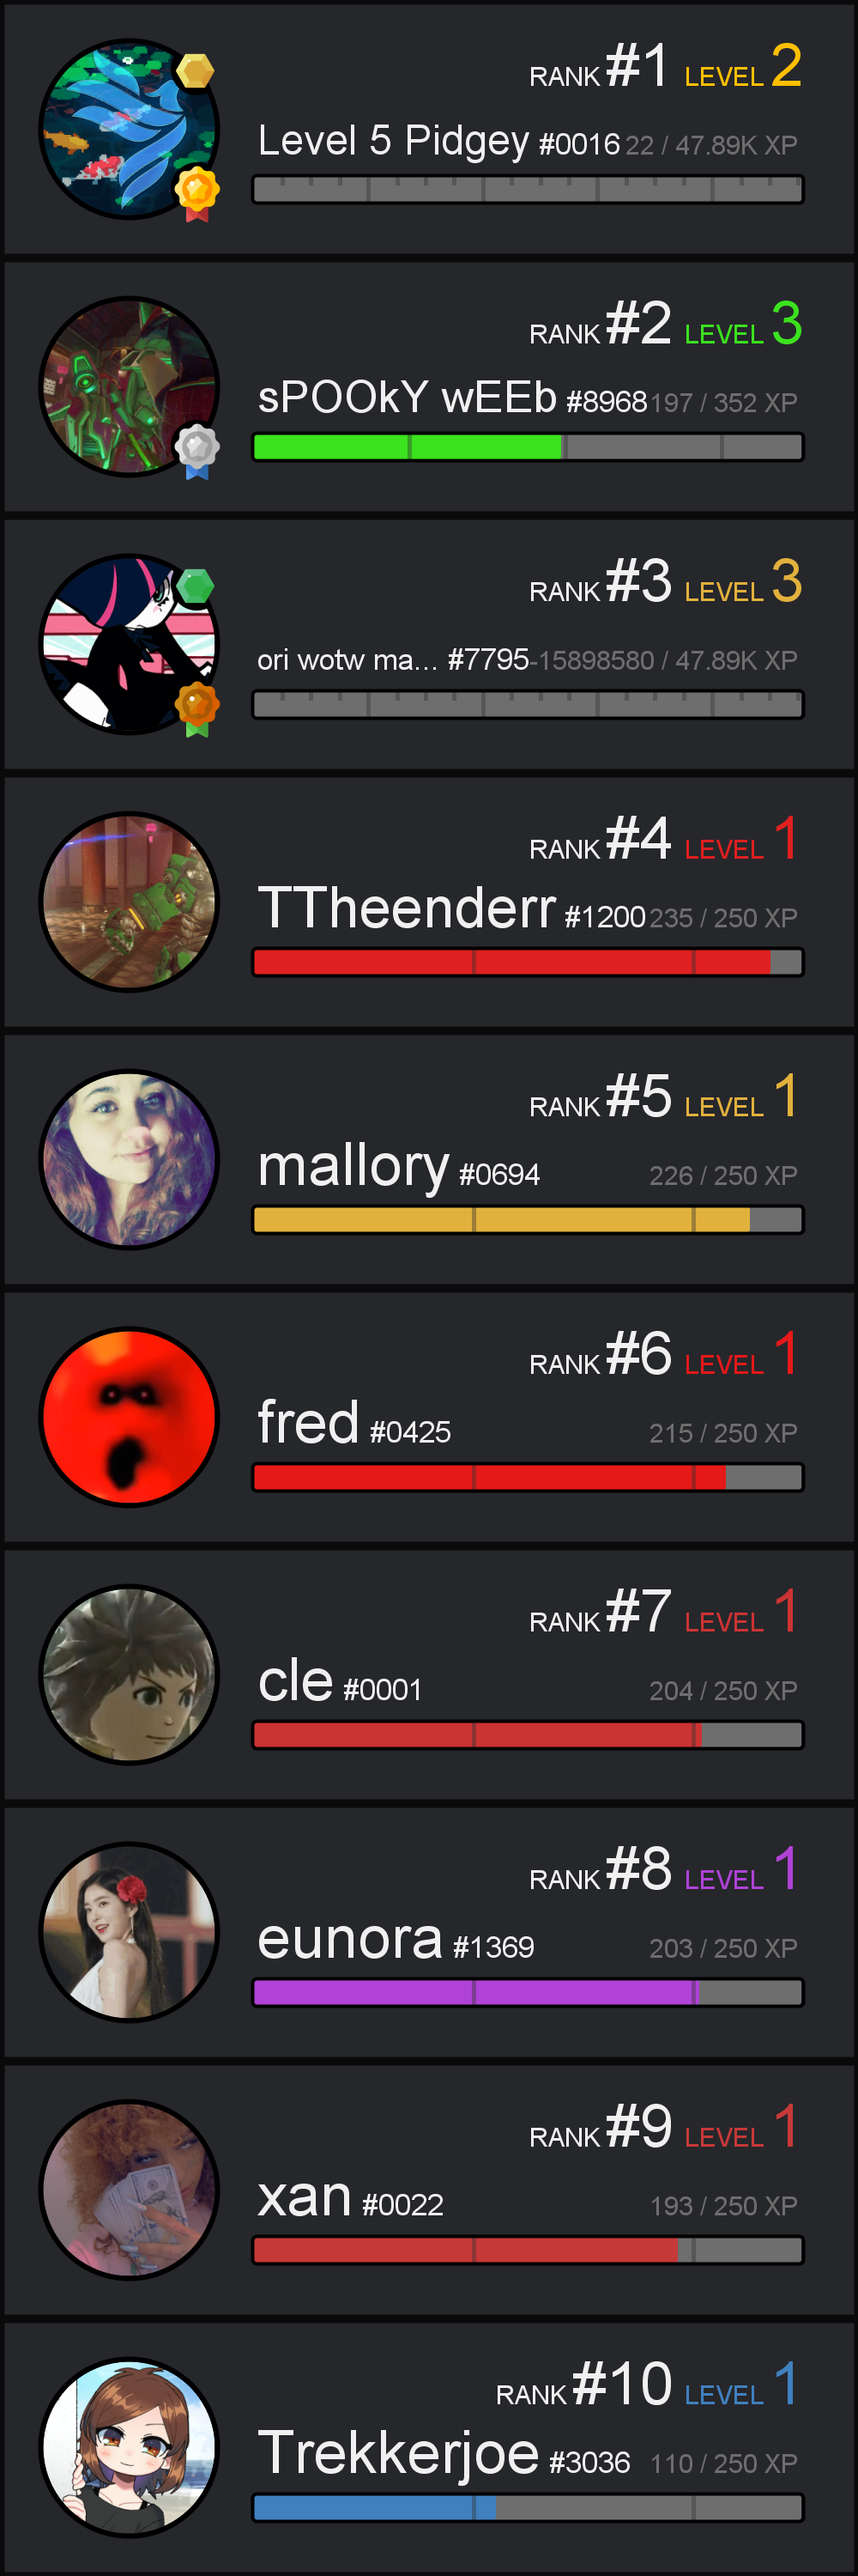
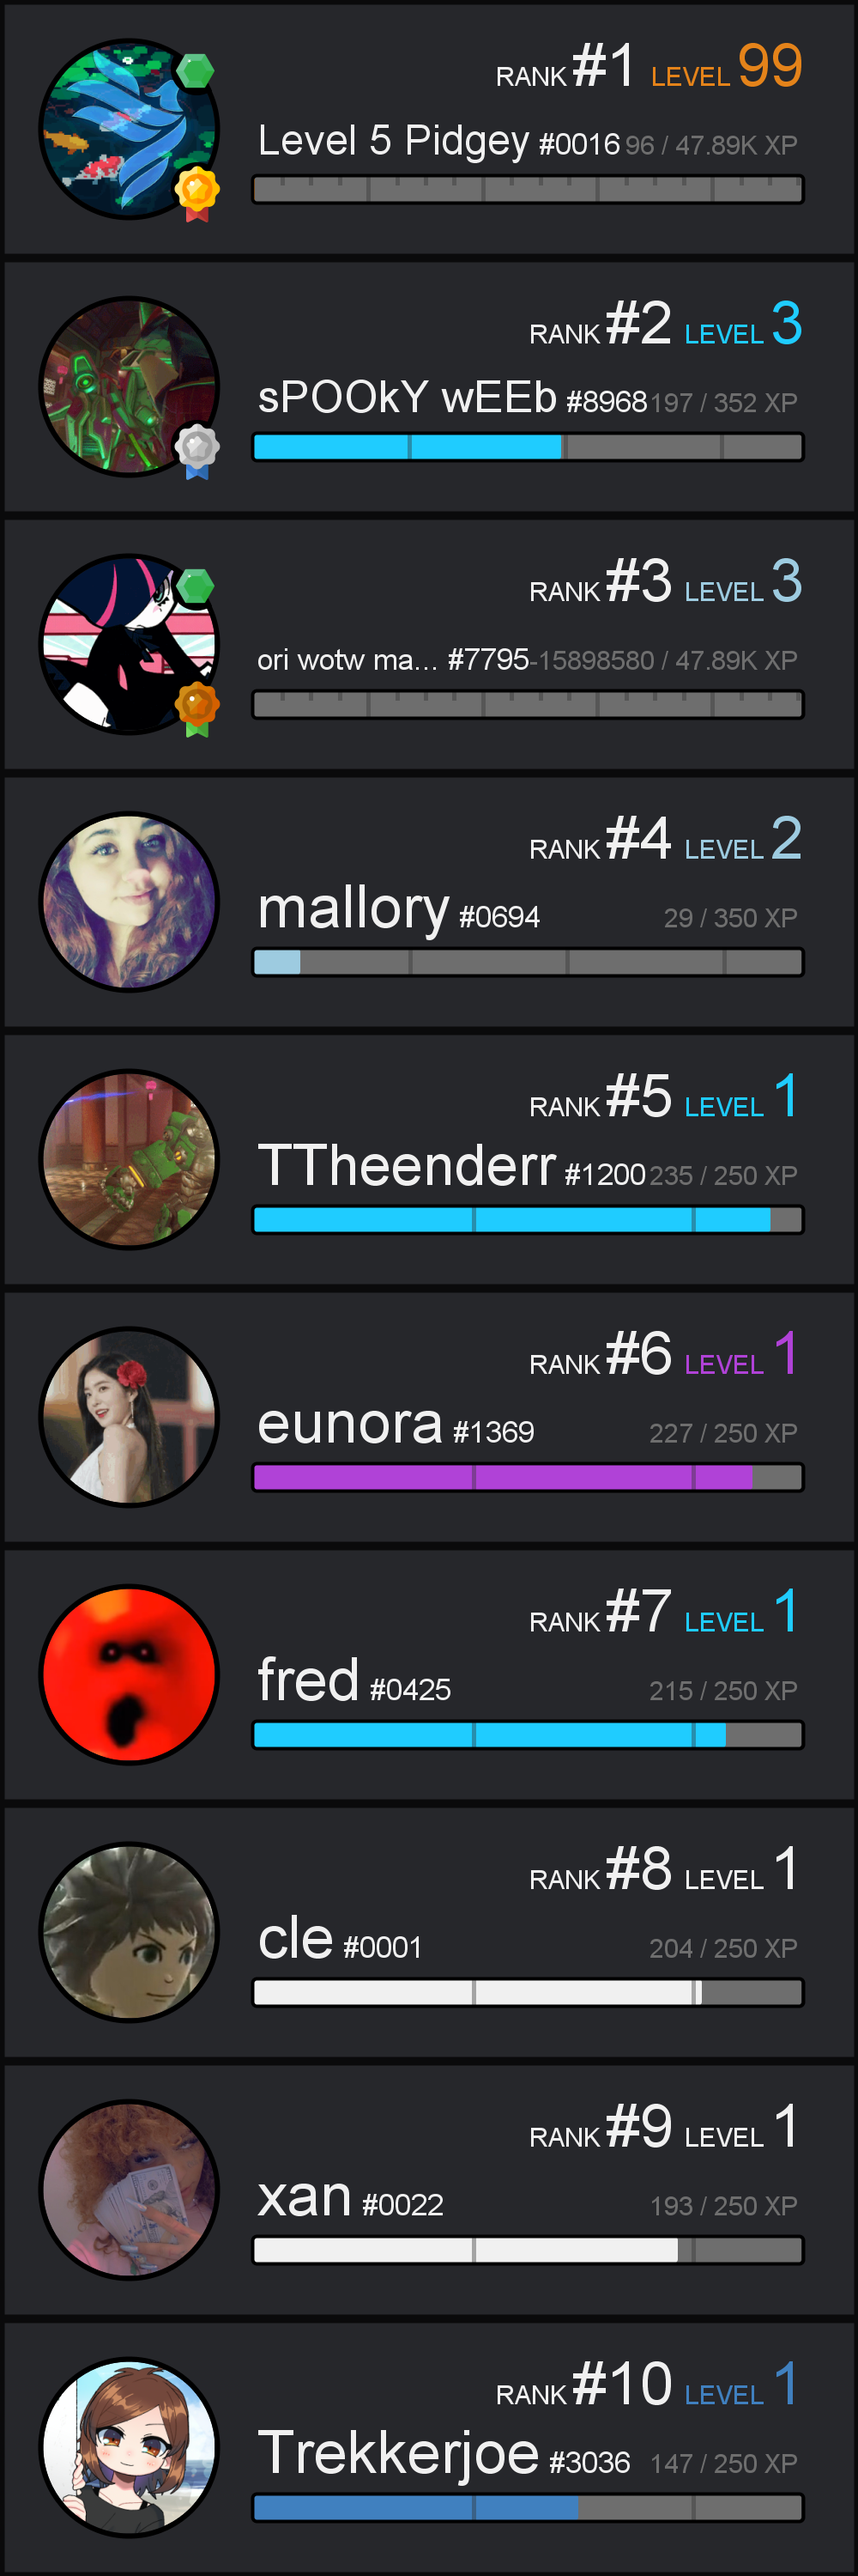
Made gif PFPs more efficient and changed MOTM roll command slightly

diff --git a/src/com/dbase/LevelCommands.java b/src/com/dbase/LevelCommands.java
@@ -209,7 +209,7 @@ public class LevelCommands
             }
         };
 
-        Command motmRoll = new Command("motmroll", "Rolls for a new member of the month based on the top 25 users in the leaderboard.", new String[]{"~motmroll"}, true)
+        Command motmRoll = new Command("motmroll", "Rolls for a new member of the month based on the top 25 users in the leaderboard, and any users in your current voice chat if you're in one.", new String[]{"~motmroll"}, true)
         {
             public boolean Execute(MessageReceivedEvent event, String[] args)
             {
@@ -227,21 +227,40 @@ public class LevelCommands
                 {
                     if (top25Users != null)
                     {
+                        ArrayList<Long> possibleUsers = new ArrayList<Long>();
+
+                        //Find out how many users there are in the resultSet.
                         while(top25Users.next())
                         {
                             i++;
                         }
-
                         top25Users.beforeFirst(); //Put the pointer of the set to before the first index
-                        //i is now equal to the amount of users in the top 25 list (just in-case there isn't 25 people in the leaderboards bc dead server lol)
-                        //Time to pick a WINNER!
-                        double rankIndex = LevelUtils.getRandomIntegerBetweenRange(1, i);
-                        for(int j = 0; j < rankIndex; j++)
+
+                        //Add all users in the top25 to the ArrayList.
+                        for(int j = 0; j < i; j++)
                         {
-                            top25Users.next();
+                            possibleUsers.add(top25Users.getLong(j));
                         }
 
-                        IUser winningUser = event.getGuild().getUserByID(top25Users.getLong(1)); //Gets the user from the randomly generated winning index
+                        //If the user is in the voice chat, add them to the list of entrants too
+                        IVoiceChannel currentVC = event.getAuthor().getVoiceStateForGuild(event.getGuild()).getChannel();
+                        if(currentVC != null)
+                        {
+                            //Return list of IUsers of all users connected to channel
+                            ArrayList<IUser> connectedUsers = (ArrayList<IUser>) currentVC.getConnectedUsers();
+
+                            for (IUser u: connectedUsers)
+                            {
+                                if(!u.getVoiceStateForGuild(event.getGuild()).isMuted() && !u.getVoiceStateForGuild(event.getGuild()).isDeafened())
+                                {
+                                    possibleUsers.add(u.getLongID());
+                                }
+                            }
+                        }
+
+                        //Time to pick a WINNER!
+                        int rankIndex = (int) LevelUtils.getRandomIntegerBetweenRange(1, possibleUsers.size()); //Pick a random index in the list of the winners
+                        IUser winningUser = event.getGuild().getUserByID(possibleUsers.get(rankIndex)); //Gets the user from the randomly generated winning index
                         //winningUser.addRole(LevelUtils.selectMOTMRole(event.getGuild())); //TODO: Add this back later.
 
                         BotUtils.SendMessage(event.getChannel(), winningUser.mention() + " was drawn as the winner of MOTM!");
@@ -339,8 +358,11 @@ public class LevelCommands
                         //Loop through all connected users and grant the set amount of XP.
                         for(IUser u: connectedUsers)
                         {
-                            //Add the set amount of XP to each user.
-                            LevelUtils.addXP(Double.parseDouble(args[1]), u, event.getGuild());
+                            if(!u.getVoiceStateForGuild(event.getGuild()).isMuted() && !u.getVoiceStateForGuild(event.getGuild()).isDeafened())
+                            {
+                                //Add the set amount of XP to each user.
+                                LevelUtils.addXP(Double.parseDouble(args[1]), u, event.getGuild());
+                            }
                         }
 
                         //Add message giving confirmation that XP has been added.

diff --git a/src/com/dbase/LevelUtils.java b/src/com/dbase/LevelUtils.java
@@ -123,13 +123,11 @@ public class LevelUtils
         for (int i = 2; i < 100; i++)
         {
             levelBarriers[i] = Math.floor(levelBarriers[i - 1] + (((4.0 * (i - 1)) / 8.0) * (Math.pow((i - 1), 3.0 / 2.0) ) + 350.0));
-            System.out.println("Level " + i + " requires " + levelBarriers[i] + "xp.");
         }
 
         for(int i = 100; i <501; i++)
         {
             levelBarriers[i] = levelBarriers[i-1] + (levelBarriers[99] - levelBarriers[98]);
-            System.out.println("Level " + i + " requires " + levelBarriers[i] + "xp.");
         }
 
         levelBarriers[501] = Integer.MAX_VALUE;
@@ -783,8 +781,7 @@ public class LevelUtils
         }
     }
 
-    private static BufferedImage drawRankCard(IUser user, IGuild guild, Image still, ArrayList<BufferedImage> frames, int index) throws IOException
-    {
+    private static BufferedImage drawRankCard(IUser user, IGuild guild, Image still, ArrayList<BufferedImage> frames, int index) throws IOException {
         int imageWidth = 1000;
         int imageHeight = 300;
 
@@ -813,8 +810,7 @@ public class LevelUtils
         Color thirdTextColor = new Color(0.2f, 0.2f, 0.2f, 0.4f);
         Color highlightColor = new Color(user.getColorForGuild(guild).getRed(), user.getColorForGuild(guild).getGreen(), user.getColorForGuild(guild).getBlue());
 
-        if(highlightColor.equals(Color.BLACK))
-        {
+        if (highlightColor.equals(Color.BLACK)) {
             highlightColor = textColor;
         }
 
@@ -829,13 +825,14 @@ public class LevelUtils
         rankGraphic.fillRoundRect(0, 0, imageWidth, imageHeight, 10, 10);
 
         // Avatar
-        if(index == -1)
-        {
+        if (index == -1) {
             rankGraphic.drawImage(still, 50, 50, null);
         }
         else
         {
-            for(int i = 0; i <= index; i++)
+            //Draw the previous 40 frames of the user's PFP
+            int j = Math.max(0, index - 40); //If there are only 5 frames in a PFP, it will start from 0 and loop 0-5.
+            for(int i = j; i <= index; i++)
             {
                 rankGraphic.drawImage(frames.get(i), 50, 50, null);
             }
@@ -1137,7 +1134,15 @@ public class LevelUtils
         ir.setInput(ImageIO.createImageInputStream(gif));
 
         // This shit was NOT fun - Gets the delay between frames from the gifs metadata so that we can reconstruct at the right frame rate
-        gifDelayTime = Integer.parseInt(ir.getImageMetadata(0).getAsTree(ir.getImageMetadata(0).getNativeMetadataFormatName()).getChildNodes().item(1).getAttributes().getNamedItem("delayTime").getNodeValue());
+        try
+        {
+            gifDelayTime = Integer.parseInt(ir.getImageMetadata(0).getAsTree(ir.getImageMetadata(0).getNativeMetadataFormatName()).getChildNodes().item(1).getAttributes().getNamedItem("delayTime").getNodeValue());
+        }
+        catch (NullPointerException e)
+        {
+            //Use hardcoded value instead.
+            gifDelayTime = 10;
+        }
 
         for(int i = 0; i < ir.getNumImages(true); i++)
         {
